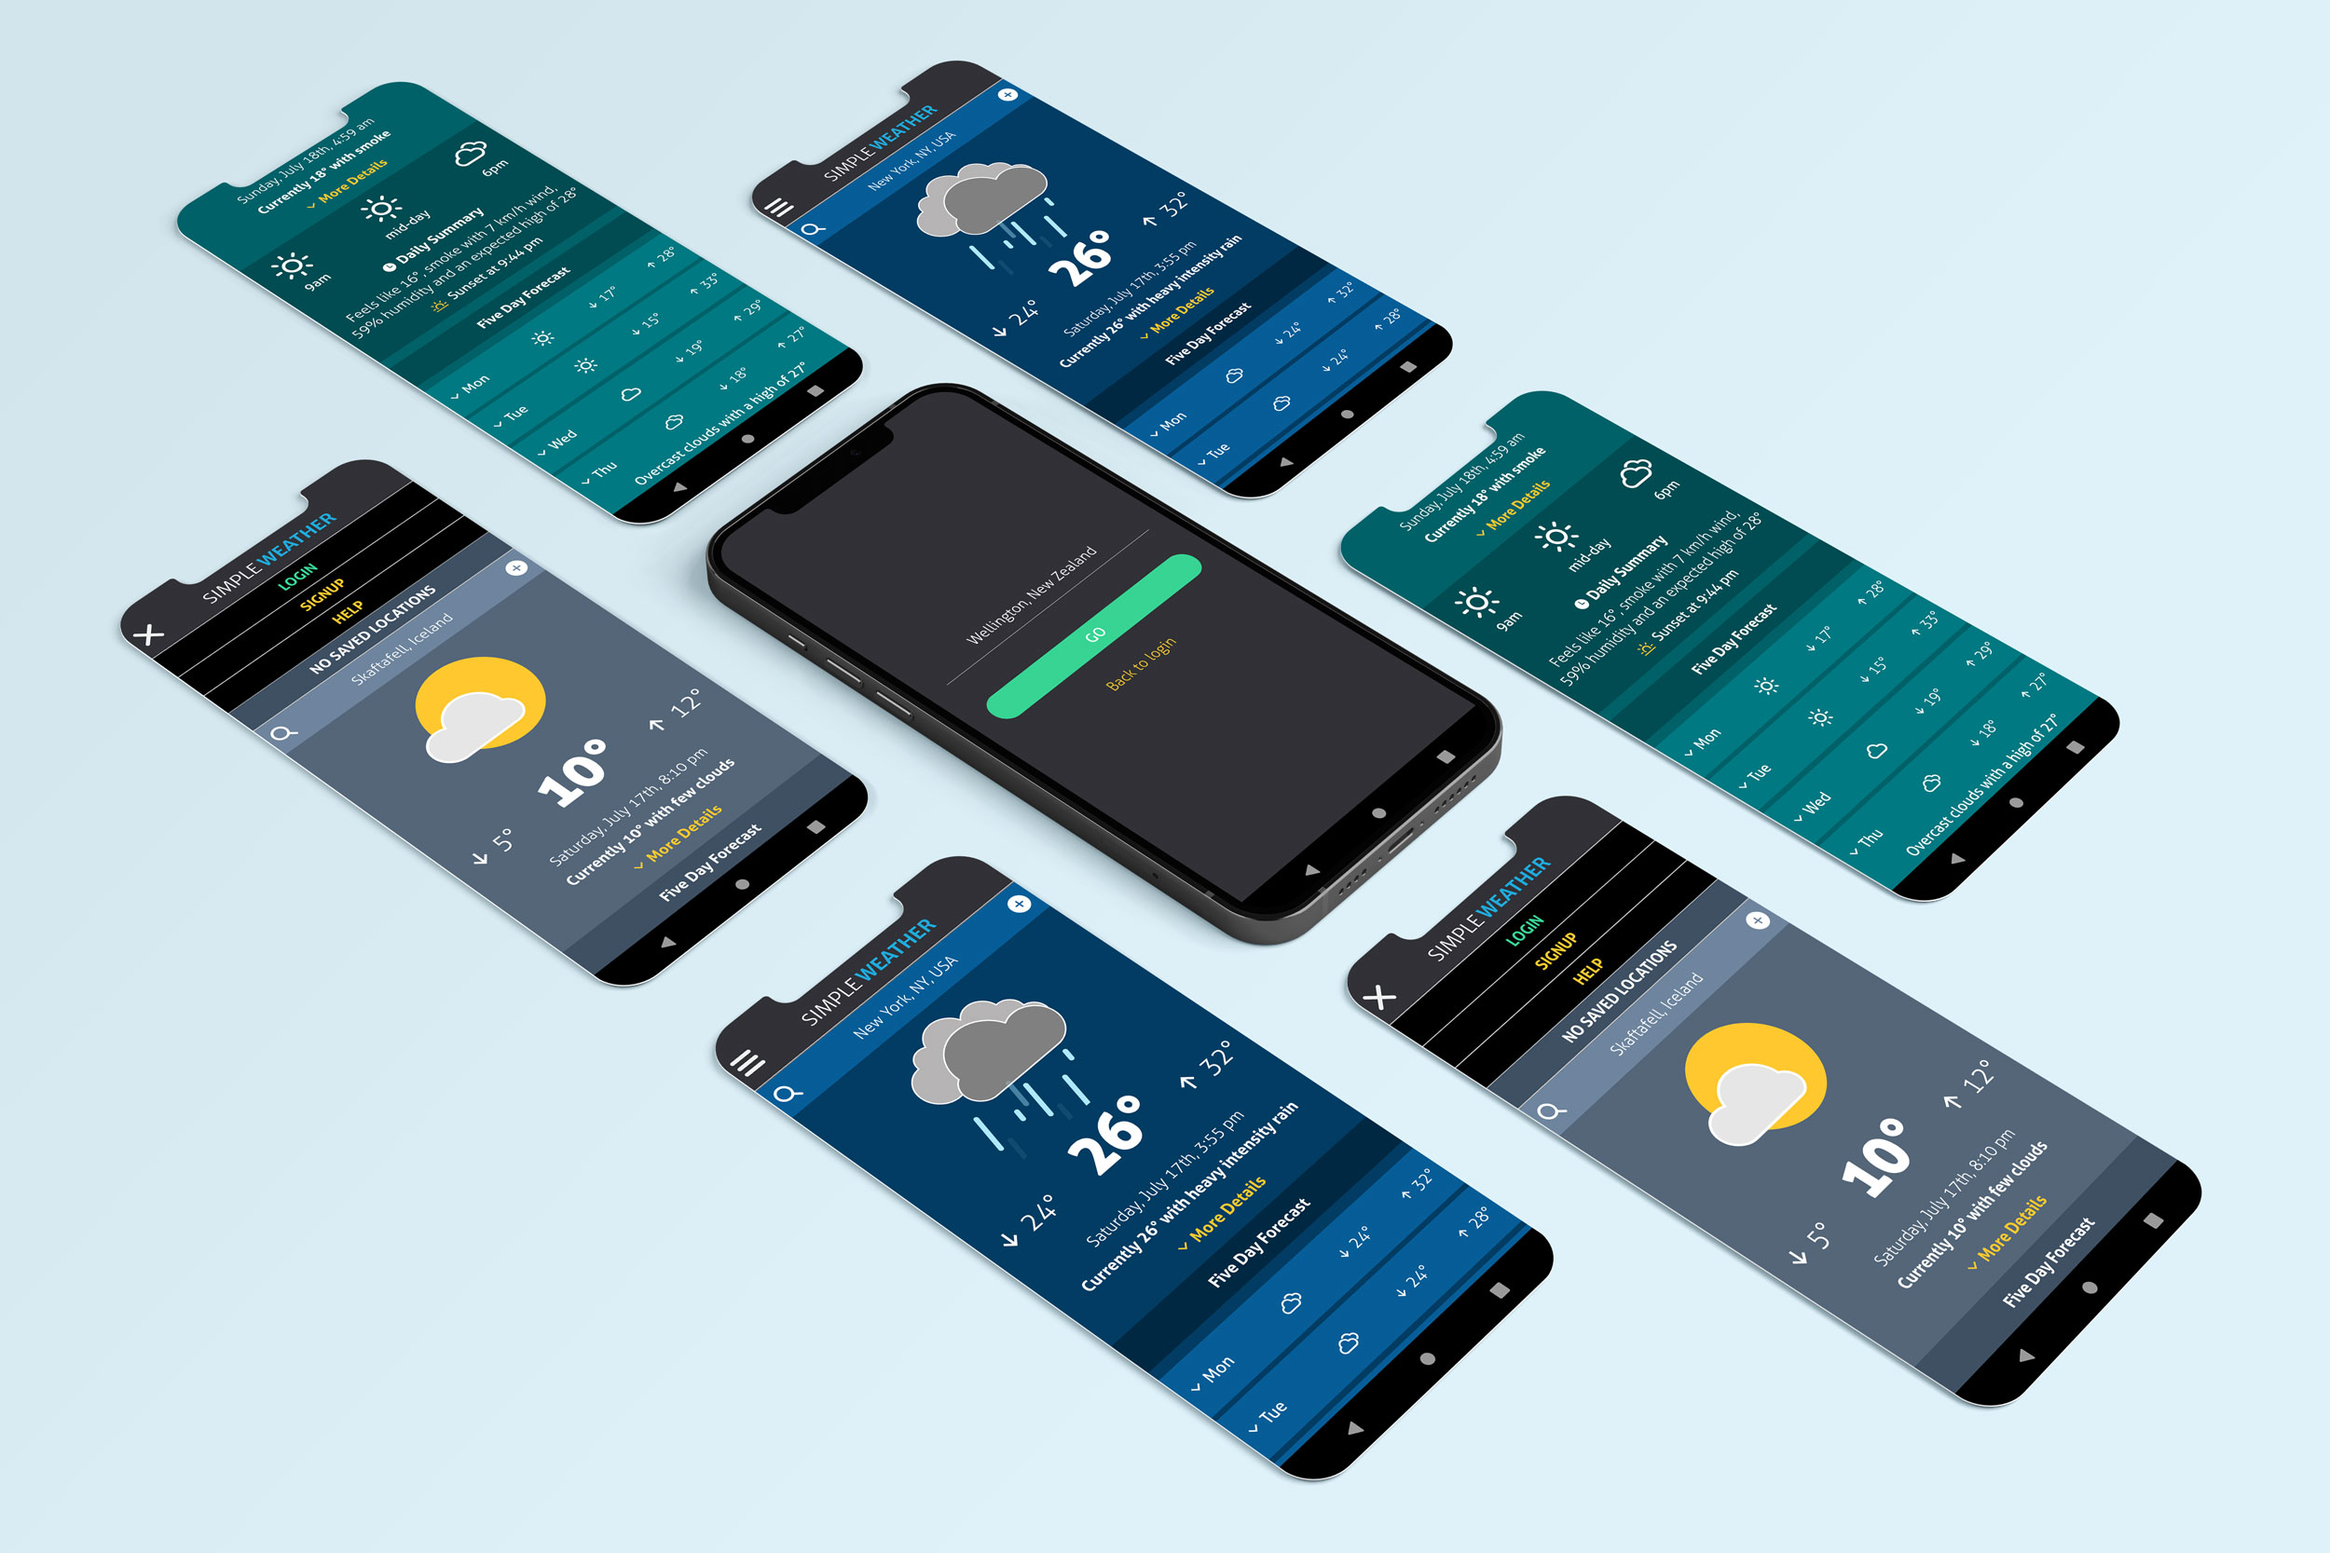
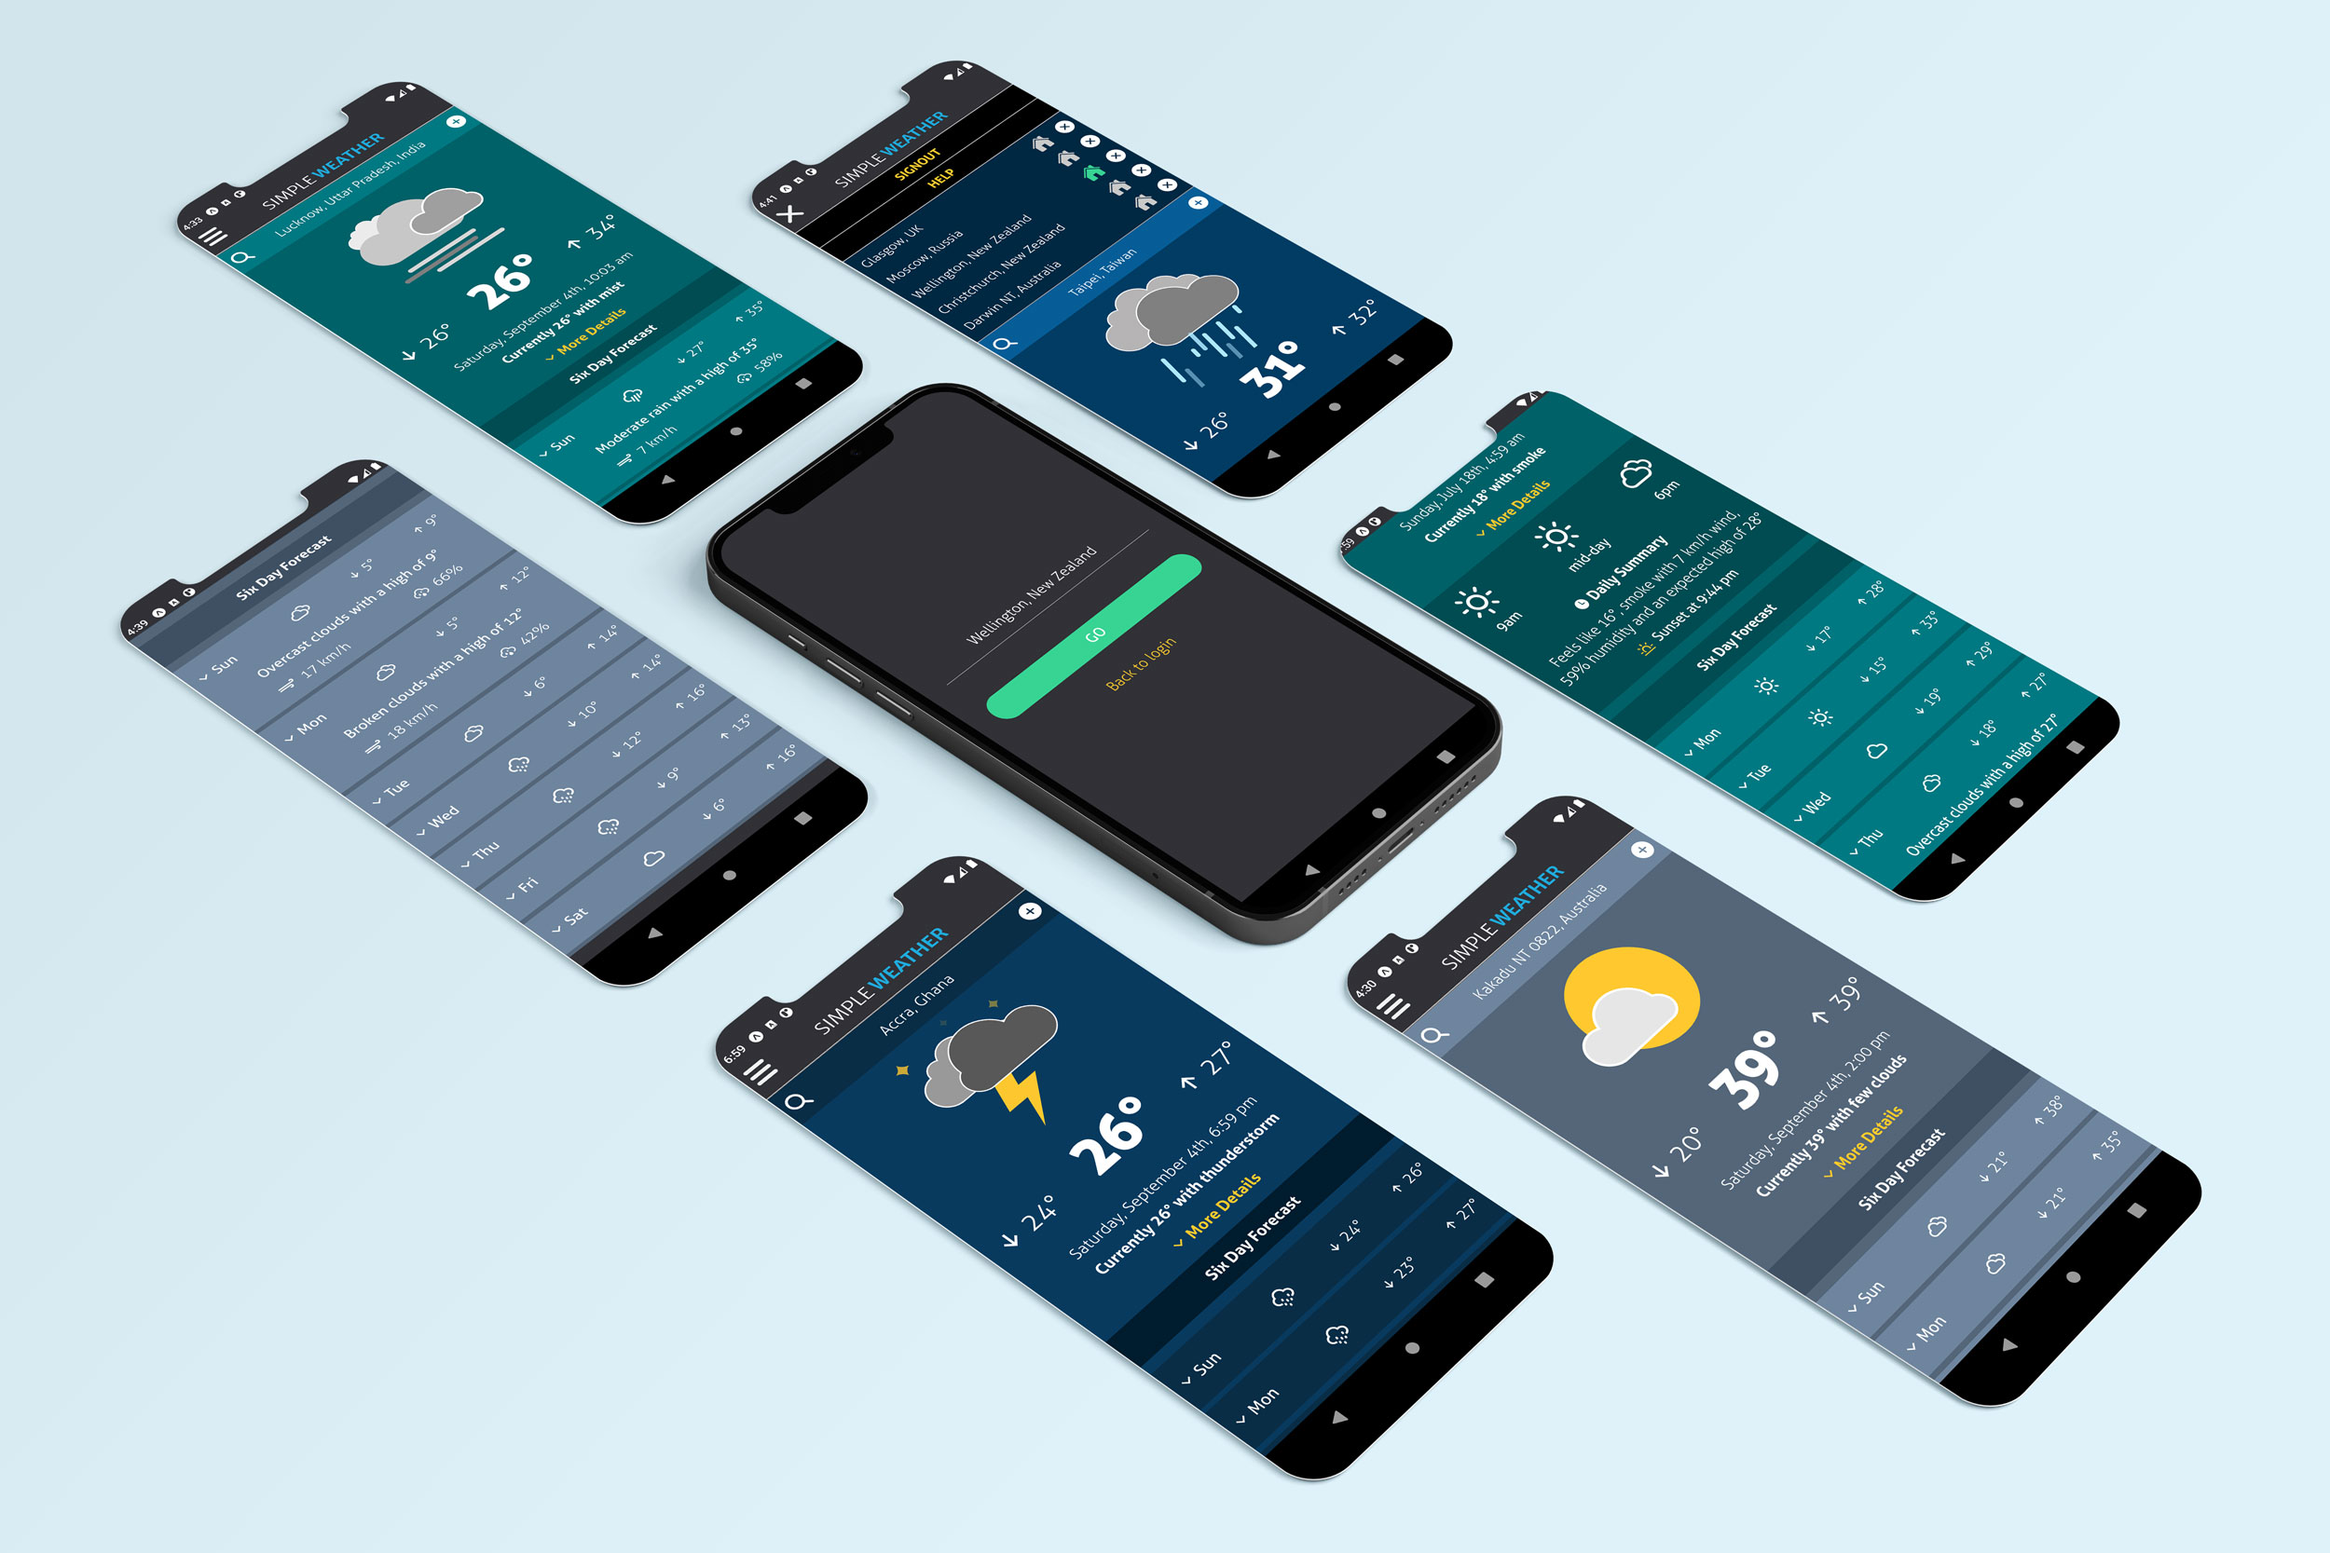
Added new screenshots and added assets to redux store

diff --git a/src/sections/Features.tsx b/src/sections/Features.tsx
@@ -1,31 +1,34 @@
 // import frameworks
 import { Col, Container, Row } from 'react-bootstrap';
+import { useSelector } from 'react-redux';
+import { RootState } from '../store';
 import Tippy from '@tippyjs/react';
 import 'tippy.js/dist/tippy.css';
-
-// import assets
-import screenOne from '../assets/img/screen-1.jpg';
-import screenTwo from '../assets/img/screen-2.jpg';
 
 // import icons
 import { AddCircle, ArrowUp, ArrowDown, CloseCircle, Home, Search } from 'react-ionicons';
 
 // Features
 const Features: React.FC = () => {
+		// redux selector
+		const pageData = useSelector((state: RootState) => {
+			return state.imageData;
+		});
+
 	return (
 		<Container fluid='lg' className='sectionContainer'>
 			<Row>
 				<Col sm={12} lg={6}>
 					<div className='screenShotWrapper'>
 						<img
-							src={screenOne}
+							src={pageData.imageList[3]}
 							className='screenShot screenShotOne'
-							alt='SimpleWeather Christchurch Summary Screen'
+							alt='SimpleWeather Cloudy Screen Example'
 						/>
 						<img
-							src={screenTwo}
+							src={pageData.imageList[4]}
 							className='screenShot screenShotTwo'
-							alt='SimpleWeather Los Angeles Summary Screen'
+							alt='SimpleWeather Thunder Screen Example'
 						/>
 					</div>
 				</Col>
@@ -34,7 +37,7 @@ const Features: React.FC = () => {
 					<p>Free App with no ads.</p>
 					<p>Sign up to the database to save up to 5 locations, set one location as “home”, remove locations and remove or change “home” locations.</p>
 					<p>Authentication screens for secure signing in.</p>
-					<p>IOS and Android compatible (only releasing on Android for now)</p>
+					<p>IOS and Android compatible (though only releasing on Android for now)</p>
 					<p>Collapsible menu with options to sign-in, sign-out or sign-up (if you haven’t signed-in) and a help section explaining the controls/operation/icons of the App.</p>
 					<div className='mt-4 appIcons'>
 						<Tippy

diff --git a/src/sections/Locations.tsx b/src/sections/Locations.tsx
@@ -9,23 +9,32 @@ const Locations: React.FC = () => {
 	return (
 		<Container fluid='lg' className='sectionContainer'>
 			<Row>
-				<Col sm={12} lg={6} className='fontRg'>
-					<h2>Millions of search results using the<a className='ms-1 spotBlue'
-								href='https://cloud.google.com/maps-platform/places'
-								target='_blank'
-								rel='noopener noreferrer'>
-								Google places API
-							</a></h2>
-					<h2>Millions of locations for weather data including over 200,000 cities worldwide provided by<a className='ms-1 spotBlue'
-								href='https://openweathermap.org/'
-								target='_blank'
-								rel='noopener noreferrer'>
-								OpenWeather
-							</a></h2>
+				<Col sm={12} lg={7} className='fontRg locationContainer'>
+					<h3>
+						Millions of search results using{' '}
+						<a
+							className='ms-1 spotBlue'
+							href='https://cloud.google.com/maps-platform/places'
+							target='_blank'
+							rel='noopener noreferrer'>
+							Google Places API
+						</a>
+					</h3>
+					<h3>
+						Millions of locations for weather data including over 200,000 cities worldwide
+						provided by
+						<a
+							className='ms-1 spotBlue'
+							href='https://openweathermap.org/'
+							target='_blank'
+							rel='noopener noreferrer'>
+							OpenWeather
+						</a>
+					</h3>
 				</Col>
 				<Col
 					sm={12}
-					lg={6}
+					lg={5}
 					className='positionRelative d-flex justify-content-center align-items-center'>
 					<LocationIcon />
 				</Col>

diff --git a/src/sections/Weather.tsx b/src/sections/Weather.tsx
@@ -24,7 +24,7 @@ const Weather: React.FC = () => {
 						<p>More details include 7am / mid-day / 5pm weather condition icons for the current day, a description, with “feels like” temp, wind speed, humidity percentage, expected daily high and sunset time (if day) or sunrise time (if night).
 						</p>
 						<p>
-						Six-day forecast starting from the next day includes a weather condition icon, low temp, high temp, description, wind speed km and icon, humidity percentage and icon.
+						Six-day forecast starting from the next day includes a weather condition icon, low temp, high temp, description, wind speed and humidity.
 						</p>
 					</Col>
 				</Row>

diff --git a/src/sections/Intro.tsx b/src/sections/Intro.tsx
@@ -14,9 +14,9 @@ const Intro: React.FC = () => {
 					<h1 className='h1Bd'>Does what the name suggests</h1>
 					<h2 className='h2Rg'>
 						Fast, accurate, and intuitive weather app designed for iOS and Android
-						<span className='spotGreyMed'>*</span>
+						<span className='spotGreyMed'> *</span>
 					</h2>
-					<p className='spotGreyMed mb-0'>*Available 22 November</p>
+					<p className='spotGreyMed mb-0'>* SimpleWeather will be available 22 November</p>
 				</Col>
 			</Row>
 			<img src={googleBadge} className='storeBadge defaultCursor greyScale' alt='Google Play Store' />

diff --git a/src/utilities/apiMethod.ts b/src/utilities/apiMethod.ts
@@ -2,13 +2,17 @@
 import bgImgOne from '../assets/img/bgimg-1.jpg';
 import bgImgTwo from '../assets/img/bgimg-2.jpg';
 import bgImgThree from '../assets/img/bgimg-3.jpg';
+import screenOne from '../assets/img/screen-1.png';
+import screenTwo from '../assets/img/screen-2.png';
 
 const apiMethod = {
 	async getMethod() {
 		const response = [
 			bgImgOne,
 			bgImgTwo,
-			bgImgThree
+			bgImgThree,
+			screenOne,
+			screenTwo
 		];
 		return response;
 	}

diff --git a/src/scss/sections.scss b/src/scss/sections.scss
@@ -14,6 +14,13 @@
 	padding-bottom: 3rem;
 }
 
+// location section container
+.locationContainer {
+	display: flex;
+	flex-direction: column;
+	justify-content: center;
+}
+
 // terms and privacy containers
 .sectionContainerPadded {
 	padding-top: 3rem;
